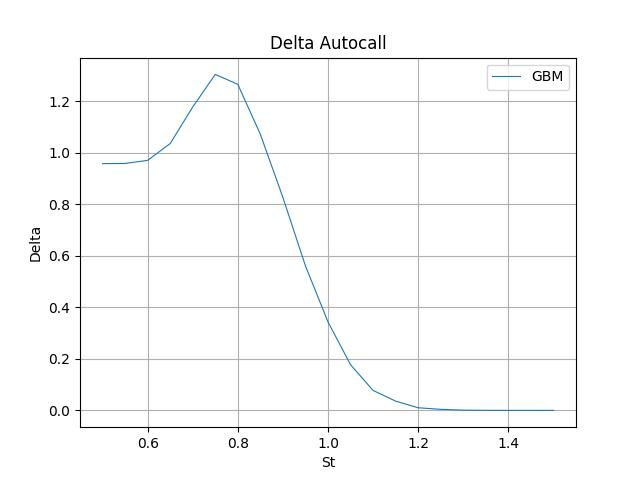
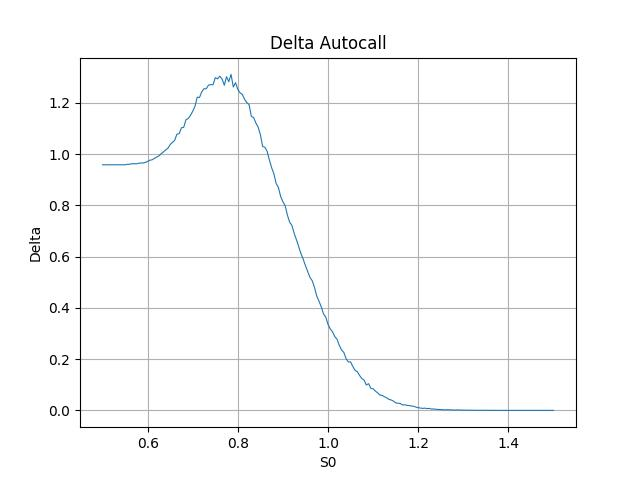
add greeks

diff --git a/main_exo.py b/main_exo.py
@@ -70,7 +70,9 @@ H_AC = 1
 
 eps = 0.01
 
-spots = [i/10 + 0.5 for i in range(11)]
+
+spots = [i/200 + 0.5 for i in range(201)]
+# spots = [i/10 + 0.5 for i in range(11)]
 # spots = [i/20 + 0.5 for i in range(21)]
 
 autocall_geo, autocall_sv, autocall_lv, autocall_slv = [], [], [], []
@@ -80,84 +82,84 @@ for s in spots:
     S0 = s
     print('GBM at ', time())
     spot_gbm = GBM(r, v, T, S0, time_step, nbr_sim)
-    print('SV at ', time())
-    spot_sv, vol_sv = HESTON(r, vols, T, S0, V0, rho, kappa, theta, xi, time_step, nbr_sim)
-    print('LV at ', time())
-    spot_lv = LV(r, vols, T, S0, time_step, nbr_sim)
-    print('LSV at ', time())
-    spot_lsv, vol_lsv = LSV(r, vols, T, S0, V0, kappa, theta, xi, rho, time_step, nbr_sim, nbr_bins)
+    # print('SV at ', time())
+    # spot_sv, vol_sv = HESTON(r, vols, T, S0, V0, rho, kappa, theta, xi, time_step, nbr_sim)
+    # print('LV at ', time())
+    # spot_lv = LV(r, vols, T, S0, time_step, nbr_sim)
+    # print('LSV at ', time())
+    # spot_lsv, vol_lsv = LSV(r, vols, T, S0, V0, kappa, theta, xi, rho, time_step, nbr_sim, nbr_bins)
     
     minS_geo = spot_gbm[-1, :].min()
-    minS_sv = spot_sv[-1, :].min()
-    minS_lv = spot_lv[-1, :].min()
-    minS_slv = spot_lsv[-1, :].min()
+    # minS_sv = spot_sv[-1, :].min()
+    # minS_lv = spot_lv[-1, :].min()
+    # minS_slv = spot_lsv[-1, :].min()
     
     abrc_geo, abrc_sv, abrc_lv, abrc_slv = 0, 0, 0, 0
     delta_geo_up, delta_geo_down, delta_sv_up, delta_sv_down = 0, 0, 0, 0
     delta_lv_up, delta_lv_down, delta_lsv_up, delta_lsv_down = 0, 0, 0, 0
     for i in range(nbr_sim):
         abrc_geo += act * ABRC(K, H, H_AC, Y, T_E, T_O, N, v, spot_gbm[-1, i], minS_geo) / nbr_sim
-        abrc_sv += act * ABRC(K, H, H_AC, Y, T_E, T_O, N, v, spot_sv[-1, i], minS_sv) / nbr_sim
-        abrc_lv += act * ABRC(K, H, H_AC, Y, T_E, T_O, N, v, spot_lv[-1, i], minS_sv) / nbr_sim
-        abrc_slv += act * ABRC(K, H, H_AC, Y, T_E, T_O, N, v, spot_lsv[-1, i], minS_sv) / nbr_sim
+        # abrc_sv += act * ABRC(K, H, H_AC, Y, T_E, T_O, N, v, spot_sv[-1, i], minS_sv) / nbr_sim
+        # abrc_lv += act * ABRC(K, H, H_AC, Y, T_E, T_O, N, v, spot_lv[-1, i], minS_sv) / nbr_sim
+        # abrc_slv += act * ABRC(K, H, H_AC, Y, T_E, T_O, N, v, spot_lsv[-1, i], minS_sv) / nbr_sim
 
         delta_geo_up += act * ABRC(K, H, H_AC, Y, T_E, T_O, N, v, spot_gbm[-1, i] + eps, minS_geo) / nbr_sim
         delta_geo_down += act * ABRC(K, H, H_AC, Y, T_E, T_O, N, v, spot_gbm[-1, i] - eps, minS_geo) / nbr_sim
 
-        delta_sv_up += act * ABRC(K, H, H_AC, Y, T_E, T_O, N, v, spot_sv[-1, i] + eps, minS_geo) / nbr_sim
-        delta_sv_down += act * ABRC(K, H, H_AC, Y, T_E, T_O, N, v, spot_sv[-1, i] - eps, minS_geo) / nbr_sim
+        # delta_sv_up += act * ABRC(K, H, H_AC, Y, T_E, T_O, N, v, spot_sv[-1, i] + eps, minS_geo) / nbr_sim
+        # delta_sv_down += act * ABRC(K, H, H_AC, Y, T_E, T_O, N, v, spot_sv[-1, i] - eps, minS_geo) / nbr_sim
 
-        delta_lv_up += act * ABRC(K, H, H_AC, Y, T_E, T_O, N, v, spot_lv[-1, i] + eps, minS_geo) / nbr_sim
-        delta_lv_down += act * ABRC(K, H, H_AC, Y, T_E, T_O, N, v, spot_lv[-1, i] - eps, minS_geo) / nbr_sim
+        # delta_lv_up += act * ABRC(K, H, H_AC, Y, T_E, T_O, N, v, spot_lv[-1, i] + eps, minS_geo) / nbr_sim
+        # delta_lv_down += act * ABRC(K, H, H_AC, Y, T_E, T_O, N, v, spot_lv[-1, i] - eps, minS_geo) / nbr_sim
 
-        delta_lsv_up += act * ABRC(K, H, H_AC, Y, T_E, T_O, N, v, spot_lsv[-1, i] + eps, minS_geo) / nbr_sim
-        delta_lsv_down += act * ABRC(K, H, H_AC, Y, T_E, T_O, N, v, spot_lsv[-1, i] - eps, minS_geo) / nbr_sim
+        # delta_lsv_up += act * ABRC(K, H, H_AC, Y, T_E, T_O, N, v, spot_lsv[-1, i] + eps, minS_geo) / nbr_sim
+        # delta_lsv_down += act * ABRC(K, H, H_AC, Y, T_E, T_O, N, v, spot_lsv[-1, i] - eps, minS_geo) / nbr_sim
 
     autocall_geo.append([s, abrc_geo])
-    autocall_sv.append([s, abrc_sv])
-    autocall_lv.append([s, abrc_lv])
-    autocall_slv.append([s, abrc_slv])
+    # autocall_sv.append([s, abrc_sv])
+    # autocall_lv.append([s, abrc_lv])
+    # autocall_slv.append([s, abrc_slv])
 
     delta_geo.append([s, (delta_geo_up - delta_geo_down) / (2 * eps)])
-    delta_sv.append([s, (delta_sv_up - delta_sv_down) / (2 * eps)])
-    delta_lv.append([s, (delta_lv_up - delta_lv_down) / (2 * eps)])
-    delta_lsv.append([s, (delta_lsv_up - delta_lsv_down) / (2 * eps)])
+    # delta_sv.append([s, (delta_sv_up - delta_sv_down) / (2 * eps)])
+    # delta_lv.append([s, (delta_lv_up - delta_lv_down) / (2 * eps)])
+    # delta_lsv.append([s, (delta_lsv_up - delta_lsv_down) / (2 * eps)])
 
     # print('ABRC GBM  at t=', s, '=', round(abrc, 3))
 autocall_geo = pd.DataFrame(autocall_geo, columns=['St', 'P'])
-autocall_sv = pd.DataFrame(autocall_sv, columns=['St', 'P'])
-autocall_lv = pd.DataFrame(autocall_lv, columns=['St', 'P'])
-autocall_slv = pd.DataFrame(autocall_slv, columns=['St', 'P'])
+# autocall_sv = pd.DataFrame(autocall_sv, columns=['St', 'P'])
+# autocall_lv = pd.DataFrame(autocall_lv, columns=['St', 'P'])
+# autocall_slv = pd.DataFrame(autocall_slv, columns=['St', 'P'])
 
 delta_geo = pd.DataFrame(delta_geo, columns=['St', 'Delta'])
-delta_sv = pd.DataFrame(delta_sv, columns=['St', 'Delta'])
-delta_lv = pd.DataFrame(delta_lv, columns=['St', 'Delta'])
-delta_lsv = pd.DataFrame(delta_lsv, columns=['St', 'Delta'])
+# delta_sv = pd.DataFrame(delta_sv, columns=['St', 'Delta'])
+# delta_lv = pd.DataFrame(delta_lv, columns=['St', 'Delta'])
+# delta_lsv = pd.DataFrame(delta_lsv, columns=['St', 'Delta'])
 
 
 # Prices
-plt.plot(autocall_geo['St'], autocall_geo['P'], label='GBM', linewidth=0.8)
-plt.plot(autocall_sv['St'], autocall_sv['P'], label='SV', linewidth=0.8)
-plt.plot(autocall_lv['St'], autocall_lv['P'], label='LV', linewidth=0.8)
-plt.plot(autocall_slv['St'], autocall_slv['P'], label='LSV', linewidth=0.8)
-plt.xlabel('St')
+plt.plot(autocall_geo['St'], autocall_geo['P'], linewidth=0.8) # label='GBM', 
+# plt.plot(autocall_sv['St'], autocall_sv['P'], label='SV', linewidth=0.8)
+# plt.plot(autocall_lv['St'], autocall_lv['P'], label='LV', linewidth=0.8)
+# plt.plot(autocall_slv['St'], autocall_slv['P'], label='LSV', linewidth=0.8)
+plt.xlabel('S0')
 plt.ylabel('Price')
 plt.grid(True)
-plt.legend(loc='upper right')
+# plt.legend(loc='upper right')
 plt.title('Price Autocall')
 plt.savefig(r'C:\Users\axelc\OneDrive\Documents\PY\ABRC\output\plots\abrc_price.jpg')
 plt.show()
 plt.close()
 
 # Deltas
-plt.plot(delta_geo['St'], delta_geo['Delta'], label='GBM', linewidth=0.8)
-plt.plot(delta_sv['St'], delta_sv['Delta'], label='SV', linewidth=0.8)
-plt.plot(delta_lv['St'], delta_lv['Delta'], label='LV', linewidth=0.8)
-plt.plot(delta_lsv['St'], delta_lsv['Delta'], label='LSV', linewidth=0.8)
-plt.xlabel('St')
+plt.plot(delta_geo['St'], delta_geo['Delta'], linewidth=0.8) # label='GBM', 
+# plt.plot(delta_sv['St'], delta_sv['Delta'], label='SV', linewidth=0.8)
+# plt.plot(delta_lv['St'], delta_lv['Delta'], label='LV', linewidth=0.8)
+# plt.plot(delta_lsv['St'], delta_lsv['Delta'], label='LSV', linewidth=0.8)
+plt.xlabel('S0')
 plt.ylabel('Delta')
 plt.grid(True)
-plt.legend(loc='upper right')
+# plt.legend(loc='upper right')
 plt.title('Delta Autocall')
 plt.savefig(r'C:\Users\axelc\OneDrive\Documents\PY\ABRC\output\plots\abrc_delta.jpg')
 plt.show()
@@ -170,24 +172,25 @@ print('Calculating Vega...')
 
 vega_geo, vega_sv, vega_lv, vega_lsv = [], [], [], []
 for s in spots:
+    print('St=', s)
     S0 = s
     print('GBM at ', time())
     spot_gbm_up = GBM(r, v + eps, T, S0, time_step, nbr_sim)
     spot_gbm_down = GBM(r, v - eps, T, S0, time_step, nbr_sim)
-    print('SV')
-    spot_sv_up, vol_sv_up = HESTON(r, vols + eps, T, S0, V0, rho, kappa, theta, xi, time_step, nbr_sim)
-    spot_sv_down, vol_sv_down = HESTON(r, vols - eps, T, S0, V0, rho, kappa, theta, xi, time_step, nbr_sim)
-    print('LV')
-    spot_lv_up = LV(r, vols + eps, T, S0, time_step, nbr_sim)
-    spot_lv_down = LV(r, vols - eps, T, S0, time_step, nbr_sim)
-    print('LSV')
-    spot_lsv_up, vol_lsv_up = LSV(r, vols + eps, T, S0, V0, kappa, theta, xi, rho, time_step, nbr_sim, nbr_bins)
-    spot_lsv_down, vol_lsv_down = LSV(r, vols - eps, T, S0, V0, kappa, theta, xi, rho, time_step, nbr_sim, nbr_bins)
+    # print('SV')
+    # spot_sv_up, vol_sv_up = HESTON(r, vols + eps, T, S0, V0, rho, kappa, theta, xi, time_step, nbr_sim)
+    # spot_sv_down, vol_sv_down = HESTON(r, vols - eps, T, S0, V0, rho, kappa, theta, xi, time_step, nbr_sim)
+    # print('LV')
+    # spot_lv_up = LV(r, vols + eps, T, S0, time_step, nbr_sim)
+    # spot_lv_down = LV(r, vols - eps, T, S0, time_step, nbr_sim)
+    # print('LSV')
+    # spot_lsv_up, vol_lsv_up = LSV(r, vols + eps, T, S0, V0, kappa, theta, xi, rho, time_step, nbr_sim, nbr_bins)
+    # spot_lsv_down, vol_lsv_down = LSV(r, vols - eps, T, S0, V0, kappa, theta, xi, rho, time_step, nbr_sim, nbr_bins)
 
     minS_geo = spot_gbm[-1, :].min()
-    minS_sv = spot_sv[-1, :].min()
-    minS_lv = spot_lv[-1, :].min()
-    minS_lsv = spot_lsv[-1, :].min()
+    # minS_sv = spot_sv[-1, :].min()
+    # minS_lv = spot_lv[-1, :].min()
+    # minS_lsv = spot_lsv[-1, :].min()
 
     vega_geo_up, vega_geo_down, vega_sv_up, vega_sv_down = 0, 0, 0, 0
     vega_lv_up, vega_lv_down, vega_lsv_up, vega_lsv_down = 0, 0, 0, 0
@@ -195,35 +198,35 @@ for s in spots:
         vega_geo_up += act * ABRC(K, H, H_AC, Y, T_E, T_O, N, v, spot_gbm_up[-1, i], minS_geo) / nbr_sim
         vega_geo_down += act * ABRC(K, H, H_AC, Y, T_E, T_O, N, v, spot_gbm_down[-1, i], minS_geo) / nbr_sim
 
-        vega_sv_up += act * ABRC(K, H, H_AC, Y, T_E, T_O, N, v, spot_sv_up[-1, i], minS_geo) / nbr_sim
-        vega_sv_down += act * ABRC(K, H, H_AC, Y, T_E, T_O, N, v, spot_sv_down[-1, i], minS_geo) / nbr_sim
+        # vega_sv_up += act * ABRC(K, H, H_AC, Y, T_E, T_O, N, v, spot_sv_up[-1, i], minS_geo) / nbr_sim
+        # vega_sv_down += act * ABRC(K, H, H_AC, Y, T_E, T_O, N, v, spot_sv_down[-1, i], minS_geo) / nbr_sim
 
-        vega_lv_up += act * ABRC(K, H, H_AC, Y, T_E, T_O, N, v, spot_lv_up[-1, i], minS_geo) / nbr_sim
-        vega_lv_down += act * ABRC(K, H, H_AC, Y, T_E, T_O, N, v, spot_lv_down[-1, i], minS_geo) / nbr_sim
+        # vega_lv_up += act * ABRC(K, H, H_AC, Y, T_E, T_O, N, v, spot_lv_up[-1, i], minS_geo) / nbr_sim
+        # vega_lv_down += act * ABRC(K, H, H_AC, Y, T_E, T_O, N, v, spot_lv_down[-1, i], minS_geo) / nbr_sim
 
-        vega_lsv_up += act * ABRC(K, H, H_AC, Y, T_E, T_O, N, v, spot_lsv_up[-1, i], minS_geo) / nbr_sim
-        vega_lsv_down += act * ABRC(K, H, H_AC, Y, T_E, T_O, N, v, spot_lsv_down[-1, i], minS_geo) / nbr_sim
+        # vega_lsv_up += act * ABRC(K, H, H_AC, Y, T_E, T_O, N, v, spot_lsv_up[-1, i], minS_geo) / nbr_sim
+        # vega_lsv_down += act * ABRC(K, H, H_AC, Y, T_E, T_O, N, v, spot_lsv_down[-1, i], minS_geo) / nbr_sim
 
     vega_geo.append([s, (vega_geo_up - vega_geo_down) / (2 * eps)])
-    vega_sv.append([s, (vega_sv_up - vega_sv_down) / (2 * eps)])
-    vega_lv.append([s, (vega_lv_up - vega_lv_down) / (2 * eps)])
-    vega_lsv.append([s, (vega_lsv_up - vega_lsv_down) / (2 * eps)])
+    # vega_sv.append([s, (vega_sv_up - vega_sv_down) / (2 * eps)])
+    # vega_lv.append([s, (vega_lv_up - vega_lv_down) / (2 * eps)])
+    # vega_lsv.append([s, (vega_lsv_up - vega_lsv_down) / (2 * eps)])
 
 vega_geo = pd.DataFrame(vega_geo, columns=['St', 'Vega'])
-vega_sv = pd.DataFrame(vega_sv, columns=['St', 'Vega'])
-vega_lv = pd.DataFrame(vega_lv, columns=['St', 'Vega'])
-vega_lsv = pd.DataFrame(vega_lsv, columns=['St', 'Vega'])
+# vega_sv = pd.DataFrame(vega_sv, columns=['St', 'Vega'])
+# vega_lv = pd.DataFrame(vega_lv, columns=['St', 'Vega'])
+# vega_lsv = pd.DataFrame(vega_lsv, columns=['St', 'Vega'])
 
 
 # Vegas
-plt.plot(vega_geo['St'], vega_geo['Vega'], label='GBM', linewidth=0.8)
-plt.plot(vega_sv['St'], vega_sv['Vega'], label='SV', linewidth=0.8)
-plt.plot(vega_lv['St'], vega_lv['Vega'], label='LV', linewidth=0.8)
-plt.plot(vega_lsv['St'], vega_lsv['Vega'], label='LSV', linewidth=0.8)
-plt.xlabel('St')
+plt.plot(vega_geo['St'], vega_geo['Vega'], linewidth=0.8) # , label='GBM',
+# plt.plot(vega_sv['St'], vega_sv['Vega'], label='SV', linewidth=0.8)
+# plt.plot(vega_lv['St'], vega_lv['Vega'], label='LV', linewidth=0.8)
+# plt.plot(vega_lsv['St'], vega_lsv['Vega'], label='LSV', linewidth=0.8)
+plt.xlabel('S0')
 plt.ylabel('Vega')
 plt.grid(True)
-plt.legend(loc='upper right')
+# plt.legend(loc='upper right')
 plt.title('Vega Autocall')
 plt.savefig(r'C:\Users\axelc\OneDrive\Documents\PY\ABRC\output\plots\abrc_vega.jpg')
 plt.show()
